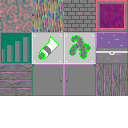
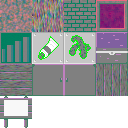
Update LobbyCreationData

Changed region(s): [[0.0, 0.75, 0.25, 1.0]]

diff --git a/Assets/CoreData/Dungeons/World/LobbyCreationData.cs b/Assets/CoreData/Dungeons/World/LobbyCreationData.cs
@@ -13,6 +13,7 @@ namespace Roguegard.CharacterCreation
         [SerializeField] private ScriptableRogueTile _wall = null;
         [SerializeField] private ScriptableStartingItem _doorL = null;
         [SerializeField] private ScriptableStartingItem _doorR = null;
+        [SerializeField] private ScriptableStartingItem _partyBoard = null;
         [SerializeField] private ScriptableStartingItem _storage = null;
 
         private const int w = 6;
@@ -63,6 +64,7 @@ namespace Roguegard.CharacterCreation
             tilemap.Remove(new Vector2Int(width / 2, 2), RogueTileLayer.Building);
             _doorR.Option.CreateObj(_doorR, lobby, new Vector2Int(width / 2, 2), random);
 
+            _partyBoard.Option.CreateObj(_partyBoard, lobby, new Vector2Int(width / 2 - 2, 3), random);
             _storage.Option.CreateObj(_storage, lobby, new Vector2Int(width / 2 + 1, 3), random);
             return lobby;
         }
